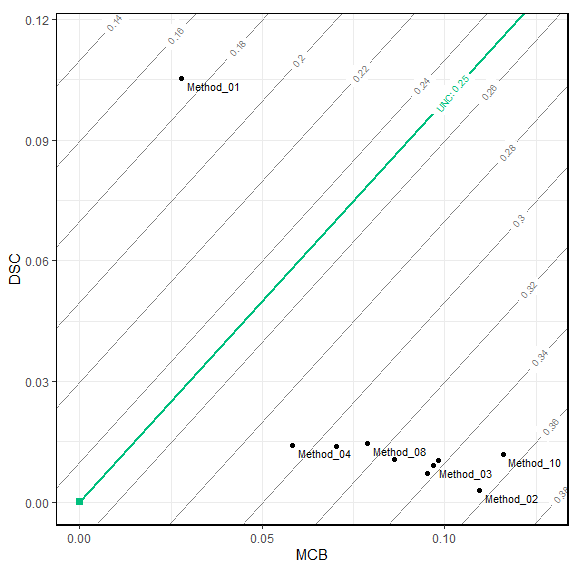
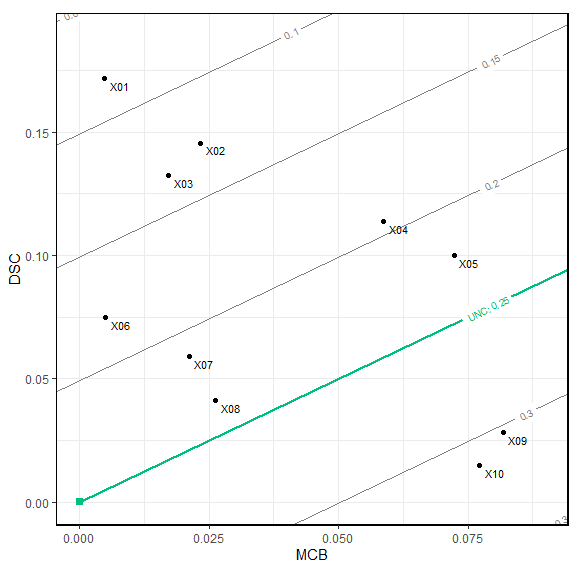
update README

diff --git a/README.md b/README.md
@@ -37,29 +37,26 @@ devtools::install_github("aijordan/triptych")
 
 ``` r
 library(triptych)
-
-# Predictions and observations
-set.seed(20230817)
-predictions <- matrix(runif(1000), ncol = 10)
-colnames(predictions) <- sprintf("Method_%02i", 1:10)
-observations <- rbinom(100, 1, predictions[, 1])
+data(ex_binary, package = "triptych")
+set.seed(20230921)
 
 # Construct and inspect
-tr <- triptych(predictions, observations)
+tr <- triptych(ex_binary)
+# or: tr <- triptych(ex_binary[2:11], ex_binary[1])
 tr
 #> # A tibble: 10 × 5
-#>    forecast           murphy     reliability             roc          mcbdsc
-#>    <chr>          <trpt_mur>      <trpt_rel>      <trpt_roc>   <trpt_mcbdsc>
-#>  1 Method_01 <named list[3]> <named list[3]> <named list[3]> <named list[3]>
-#>  2 Method_02 <named list[3]> <named list[3]> <named list[3]> <named list[3]>
-#>  3 Method_03 <named list[3]> <named list[3]> <named list[3]> <named list[3]>
-#>  4 Method_04 <named list[3]> <named list[3]> <named list[3]> <named list[3]>
-#>  5 Method_05 <named list[3]> <named list[3]> <named list[3]> <named list[3]>
-#>  6 Method_06 <named list[3]> <named list[3]> <named list[3]> <named list[3]>
-#>  7 Method_07 <named list[3]> <named list[3]> <named list[3]> <named list[3]>
-#>  8 Method_08 <named list[3]> <named list[3]> <named list[3]> <named list[3]>
-#>  9 Method_09 <named list[3]> <named list[3]> <named list[3]> <named list[3]>
-#> 10 Method_10 <named list[3]> <named list[3]> <named list[3]> <named list[3]>
+#>    forecast          murphy     reliability             roc          mcbdsc
+#>    <chr>         <trpt_mur>      <trpt_rel>      <trpt_roc>   <trpt_mcbdsc>
+#>  1 X01      <named list[3]> <named list[3]> <named list[3]> <named list[3]>
+#>  2 X02      <named list[3]> <named list[3]> <named list[3]> <named list[3]>
+#>  3 X03      <named list[3]> <named list[3]> <named list[3]> <named list[3]>
+#>  4 X04      <named list[3]> <named list[3]> <named list[3]> <named list[3]>
+#>  5 X05      <named list[3]> <named list[3]> <named list[3]> <named list[3]>
+#>  6 X06      <named list[3]> <named list[3]> <named list[3]> <named list[3]>
+#>  7 X07      <named list[3]> <named list[3]> <named list[3]> <named list[3]>
+#>  8 X08      <named list[3]> <named list[3]> <named list[3]> <named list[3]>
+#>  9 X09      <named list[3]> <named list[3]> <named list[3]> <named list[3]>
+#> 10 X10      <named list[3]> <named list[3]> <named list[3]> <named list[3]>
 class(tr)
 #> [1] "triptych"   "tbl_df"     "tbl"        "data.frame"
 
@@ -67,10 +64,10 @@ class(tr)
 # 2. Add consistency bands (for reliability curves)
 # 3. Create patchwork object
 # 4. Adjust the title of the legend
-dplyr::slice_head(tr, n = 4) |>
+dplyr::slice(tr, 1, 3, 6, 9) |>
   add_consistency(level = 0.9, n_boot = 100) |>
   autoplot() &
-  ggplot2::guides(colour = ggplot2::guide_legend("Predictions"))
+  ggplot2::guides(colour = ggplot2::guide_legend("Forecast"))
 ```
 
 <img src="man/figures/README-example_triptych-1.png" width="100%" />
@@ -79,18 +76,18 @@ dplyr::slice_head(tr, n = 4) |>
 # From already computed triptych
 estimates(tr$mcbdsc)
 #> # A tibble: 10 × 5
-#>    forecast  mean_score    MCB     DSC   UNC
-#>    <chr>          <dbl>  <dbl>   <dbl> <dbl>
-#>  1 Method_01      0.173 0.0279 0.105    0.25
-#>  2 Method_02      0.357 0.110  0.00281  0.25
-#>  3 Method_03      0.338 0.0970 0.00903  0.25
-#>  4 Method_04      0.294 0.0583 0.0140   0.25
-#>  5 Method_05      0.307 0.0704 0.0138   0.25
-#>  6 Method_06      0.326 0.0863 0.0107   0.25
-#>  7 Method_07      0.338 0.0952 0.00724  0.25
-#>  8 Method_08      0.314 0.0789 0.0145   0.25
-#>  9 Method_09      0.338 0.0982 0.0103   0.25
-#> 10 Method_10      0.354 0.116  0.0118   0.25
+#>    forecast mean_score     MCB    DSC   UNC
+#>    <chr>         <dbl>   <dbl>  <dbl> <dbl>
+#>  1 X01          0.0827 0.00474 0.172  0.250
+#>  2 X02          0.127  0.0233  0.146  0.250
+#>  3 X03          0.134  0.0172  0.132  0.250
+#>  4 X04          0.194  0.0587  0.114  0.250
+#>  5 X05          0.222  0.0723  0.100  0.250
+#>  6 X06          0.180  0.00494 0.0748 0.250
+#>  7 X07          0.212  0.0211  0.0590 0.250
+#>  8 X08          0.235  0.0263  0.0410 0.250
+#>  9 X09          0.303  0.0818  0.0282 0.250
+#> 10 X10          0.312  0.0772  0.0148 0.250
 autoplot(tr$mcbdsc)
 ```
 
@@ -99,6 +96,6 @@ autoplot(tr$mcbdsc)
 ``` r
 
 # Or standalone:
-# mcbdsc(predictions, observations) |> autoplot()
 # mcbdsc(predictions, observations) |> estimates()
+# mcbdsc(predictions, observations) |> autoplot()
 ```
